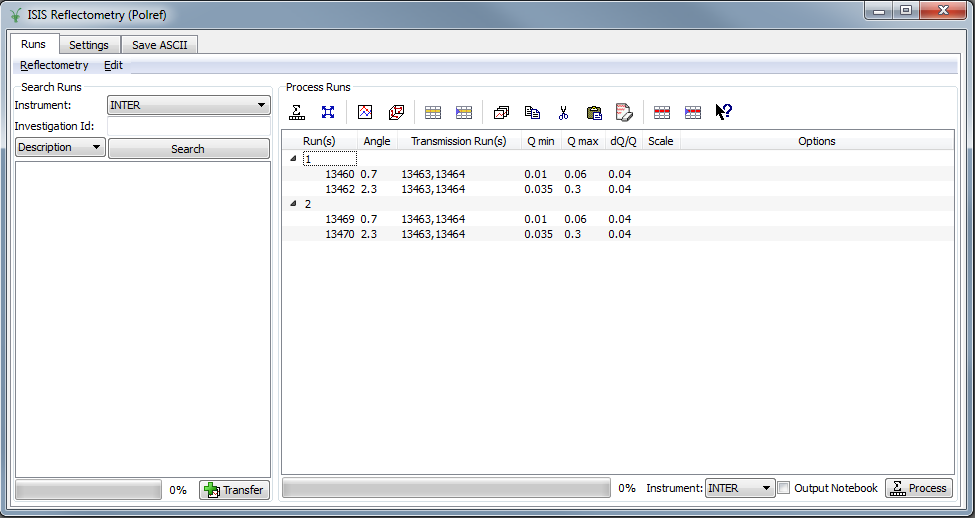
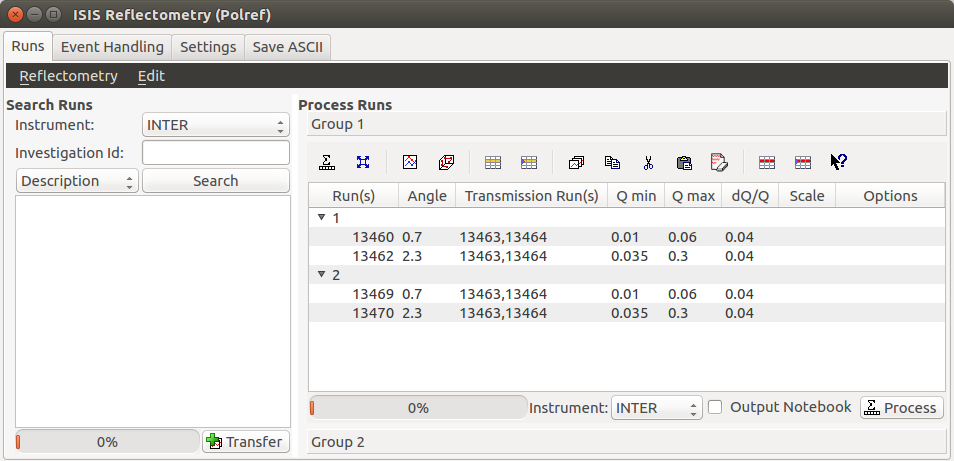
Re #18227 Updating documentation

diff --git a/docs/source/interfaces/ISIS_Reflectometry.rst b/docs/source/interfaces/ISIS_Reflectometry.rst
@@ -11,7 +11,7 @@ Purpose
 -------
 This user interface allows for batch processing of data reduction for
 reflectometry data. The actual data reduction is performed with
-:ref:`ReflectometryReductionOne <algm-ReflectometryReductionOne>`.
+:ref:`ReflectometryReductionOneAuto <algm-ReflectometryReductionOneAuto>`.
 Wherever possible, this interface attempts to use reasonable defaults,
 either loaded from the instruments' parameter files, or calculated from
 the provided data, to minimise the amount of user input required.
@@ -61,7 +61,7 @@ In addition the table workspace should be opened as well and the processing tabl
 
 Let's process the first group, which consists of the first two rows of the
 table (13460 and 13462). The simplest way to do this is simply to select the
-two rows we want to process, and then click on **Process**.
+group we want to process, and then click on **Process**.
 
 .. tip::
   If you receive an error, consult the `Troubleshooting`_ section of this document for guidance on fixing it.
@@ -78,16 +78,16 @@ TRANS_13463_13464
   on ``TOF_13463`` and ``TOF_13464``. The X axis is wavelength in Å.
 
 IvsQ_13460
-  This is the output workspace of :ref:`ReflectometryReductionOne <algm-ReflectometryReductionOne>`. The X
+  This is the output workspace of :ref:`ReflectometryReductionOneAuto <algm-ReflectometryReductionOneAuto>`. The X
   axis is momentum transfer in Å\ :sup:`-1`\ .
 
 IvsLam_13460
-  This is the wavelength output workspace of :ref:`ReflectometryReductionOne <algm-ReflectometryReductionOne>`.
+  This is the wavelength output workspace of :ref:`ReflectometryReductionOneAuto <algm-ReflectometryReductionOneAuto>`.
   The X axis is wavelength in Å.
 
 IvsQ_13460_13462
   This workspace is the result of stitching ``IvsQ_13460`` and ``IvsQ_13462`` together using
-  :ref:`Stitch1D <algm-Stitch1D>`. The X axis is momentum transfer in Å\ :sup:`-1`\ .
+  :ref:`Stitch1DMany <algm-Stitch1DMany>`. The X axis is momentum transfer in Å\ :sup:`-1`\ .
 
 Layout
 ------
@@ -205,13 +205,6 @@ This table details the behaviour of the actions in the tool bar, from left to ri
 | Insert Group     | Adds a new group after the first selected group, or at   |
 |                  | the end of the table if no groups were selected.         |
 +------------------+----------------------------------------------------------+
-| Delete Row       | Deletes any selected rows. If no rows are selected,      |
-|                  | nothing happens. If the single row of a group is selected|
-|                  | for deletion, the group will also be deleted.            |
-+------------------+----------------------------------------------------------+
-| Delete Group     | Deletes any selected Groups. If no groups are selected,  |
-|                  | nothing happens.                                         |
-+------------------+----------------------------------------------------------+
 | Group Rows       | Takes all the selected rows and places them in a group   |
 |                  | together, separate from any other group.                 |
 +------------------+----------------------------------------------------------+
@@ -227,7 +220,12 @@ This table details the behaviour of the actions in the tool bar, from left to ri
 | Clear Rows       | Resets the cells in any selected rows to their initial   |
 |                  | value, in other words, blank.                            |
 +------------------+----------------------------------------------------------+
-| Help             | Opens this documentation for viewing.                    |
+| Delete Row       | Deletes any selected rows. If no rows are selected,      |
+|                  | nothing happens. If the single row of a group is selected|
+|                  | for deletion, the group will also be deleted.            |
++------------------+----------------------------------------------------------+
+| Delete Group     | Deletes any selected Groups. If no groups are selected,  |
+|                  | nothing happens.                                         |
 +------------------+----------------------------------------------------------+
 | What's This      | Provides guidance on what various parts of the interface |
 |                  | are for.                                                 |
@@ -250,7 +248,7 @@ Columns
 +---------------------+-----------+---------------------------------------------------------------------------------+
 | Angle               | No        | Contains the angle used during the run, in                                      |
 |                     |           | degrees. If left blank,                                                         |
-|                     |           | :ref:`ReflectometryReductionOne <algm-ReflectometryReductionOne>`               |
+|                     |           | :ref:`ReflectometryReductionOneAuto <algm-ReflectometryReductionOneAuto>`       |
 |                     |           | will calculate theta using                                                      |
 |                     |           | :ref:`SpecularReflectionCalculateTheta <algm-SpecularReflectionCalculateTheta>`.|
 |                     |           |                                                                                 |
@@ -382,6 +380,33 @@ Hovering over the highlighted run with your cursor will allow you to see why the
    :alt: Showing tooltip from failed transfer.
 
 
+Event Handling tab
+~~~~~~~~~~~~~~~~~~
+
+The *Event Handling* tab can be used to analyze event workspaces. Currently, it contains a text box where
+a custom python list can be specified to indicate the time slices to analyze. When this text box is empty,
+no event analysis will be performed, runs will be loaded using :ref:`LoadISISNexus <algm-LoadISISNexus>` and
+analyzed as histogram workspaces. When this text box is not empty, runs will be loaded using
+:ref:`LoadEventNexus <algm-LoadEventNexus>` and the interface will try to parse the user
+input to obtain a set of start times and stop times. These define different time slices that will be
+passed on to :ref:`FilterByTime <algm-FilterByTime>`. Each time slice will be normalized by the total
+proton charge and reduced as described in the previous section. Note that, if any of the runs in a group could
+not be loaded as an event workspace, the interface will load the runs within that group as histogram workspaces
+and no event analysis will be performed for that group. A warning message will be shown when the reduction is complete
+indicating that some groups could not be processed as event data.
+
+Time slices must be indicated as a list of comma-separated numbers. There are different possibilities:
+
+- If a single number is provided, e.g. ``100``, the interface will extract a single slice starting at the start of the
+  run, and ending at ``100`` seconds.
+- If two numbers are provided, e.g. ``100, 200``, the interface will extract a single slice starting ``100`` seconds
+  after the start of the run and stopping at 200 seconds after the start of the run.
+- If more than two numbers are provided, e.g. ``100, 200, 300``, the interface will extract two slices, the
+  first one starting at ``100`` seconds after the start of the run and ending at ``200`` seconds after the
+  start of the run, and the second one starting at ``200`` seconds and ending at ``300`` seconds.
+
+Workspaces will be named according to the slice, e.g ``IvsQ_13460_0_100``, ``IvsLam_13460_0_100``, etc.
+
 Settings tab
 ~~~~~~~~~~~~
 
@@ -395,7 +420,7 @@ following algorithms:
 
 - :ref:`CreateTransmissionWorkspaceAuto <algm-CreateTransmissionWorkspaceAuto>`
   (applied to **Transmission Run(s)**).
-- :ref:`ReflectometryReductionOne <algm-ReflectometryReductionOne>`, main reduction algorithm.
+- :ref:`ReflectometryReductionOneAuto <algm-ReflectometryReductionOneAuto>`, main reduction algorithm.
 - :ref:`Stitch1DMany <algm-Stitch1DMany>` (note that at least a bin width must be
   specified for this algorithm to run successfully, for instance *Params="-0.03"*).
 
@@ -468,6 +493,18 @@ ASCII formats. The filenames are saved in the form [Prefix][Workspace Name].[ext
 |                               | to specify if you want a Title and/or Q Resolution   |
 |                               | column as well as specifying the delimiter.          |
 +-------------------------------+------------------------------------------------------+
+
+Groups
+------
+
+Tabs **Runs**, **Event Handling** and **Settings** contain a tool box with two different groups. These groups
+are useful when users need to apply different options to runs measured during the same experiment. For instance,
+if some runs need to be analyzed with a wavelength range of ``LambdaMin=1, LambdaMax=17`` but others need a
+wavelength range of ``LambdaMin=1.5, LambdaMax=15``, users may want to transfer the first set to the processing
+table in the first group and the second set to the processing table in the second group. The interface will
+use the settings in the first group to reduce runs in the first processing table, and the settings in the
+second group to reduce runs in the second processing table. The process is analogous for time slicing options
+specified in the **Event Handling** tab.
 
 .. _ISIS_Reflectomety-Options:
 
